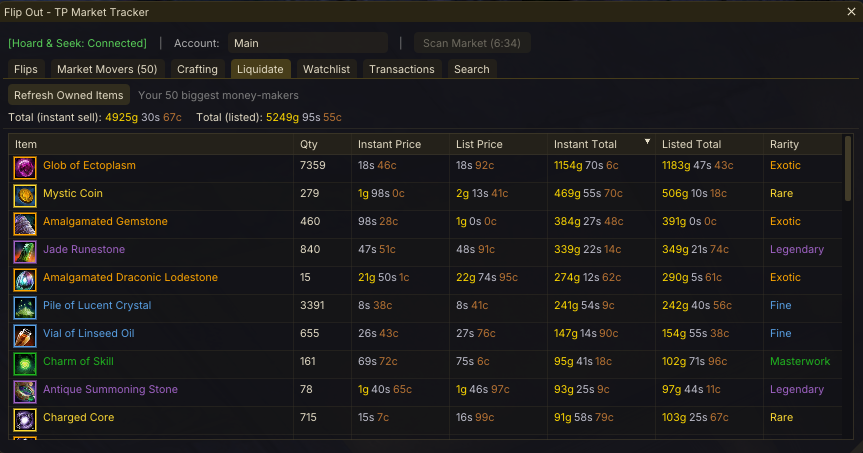
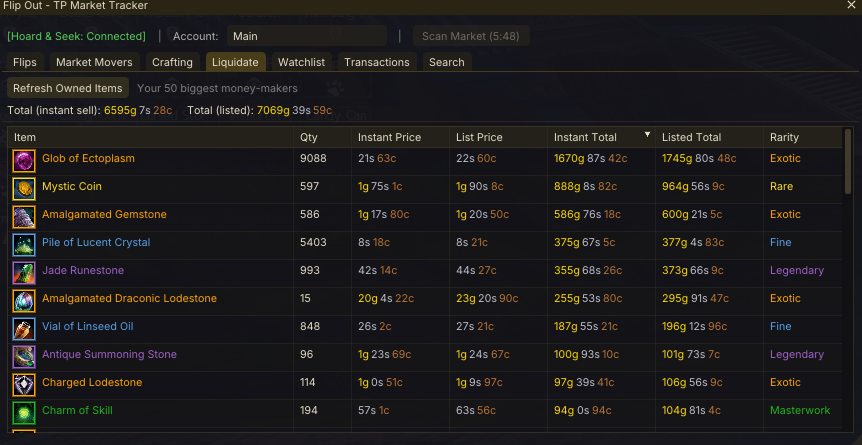
chore: bump to v0.9.1.0, refresh Liquidate screenshot
- Version 0.9.0.0 -> 0.9.1.0 (H&S v4 compatibility release)
- README: H&S API listed as v3 / v4
- Updated Liquidate screenshot to current UI

diff --git a/src/dllmain.cpp b/src/dllmain.cpp
@@ -25,7 +25,7 @@
 // Version constants
 #define V_MAJOR 0
 #define V_MINOR 9
-#define V_BUILD 0
+#define V_BUILD 1
 #define V_REVISION 0
 
 // Quick Access icon identifiers

diff --git a/README.md b/README.md
@@ -160,4 +160,4 @@ MIT
 | [Dear ImGui](https://github.com/ocornut/imgui) | v1.80 | MIT | [License](https://github.com/ocornut/imgui/blob/master/LICENSE.txt) |
 | [nlohmann/json](https://github.com/nlohmann/json) | v3.11.3 | MIT | [License](https://github.com/nlohmann/json/blob/develop/LICENSE.MIT) |
 | [Nexus](https://raidcore.gg/Nexus) | API v6 | MIT | [License](https://github.com/RaidcoreGG/RCGG-lib-nexus-api/blob/main/LICENSE) |
-| [Hoard & Seek API](https://github.com/PieOrCake/hoard_and_seek) | v3 | MIT | [License](https://github.com/PieOrCake/hoard_and_seek/blob/main/LICENSE) |
+| [Hoard & Seek API](https://github.com/PieOrCake/hoard_and_seek) | v3 / v4 | MIT | [License](https://github.com/PieOrCake/hoard_and_seek/blob/main/LICENSE) |
